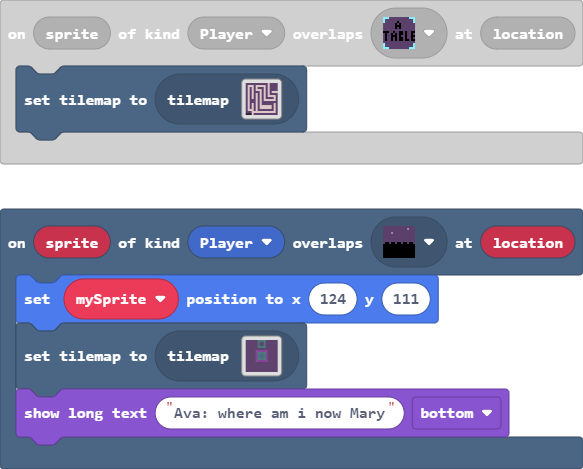
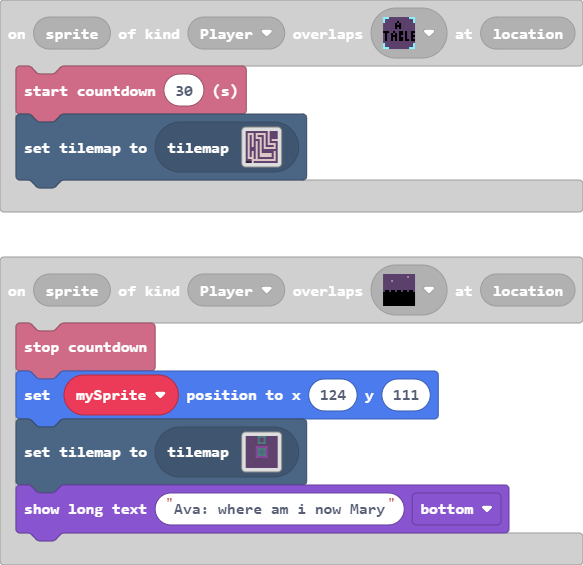
bara sma

diff --git a/images.g.ts b/images.g.ts
@@ -74,7 +74,7 @@ f f f . . . f f . . . . . . . .
     helpers._registerFactory("song", function(name: string) {
         switch(helpers.stringTrim(name)) {
             case "song1":
[2 lines of base64/hex data omitted]
         }
         return null;
     })

diff --git a/main.ts b/main.ts
@@ -172,6 +172,7 @@ scene.onOverlapTile(SpriteKind.Player, assets.tile`myTile24`, function (sprite, 
     info.setScore(10)
 })
 scene.onOverlapTile(SpriteKind.Player, assets.tile`myTile13`, function (sprite, location) {
+    info.startCountdown(30)
     tiles.setCurrentTilemap(tilemap`level93`)
 })
 scene.onOverlapTile(SpriteKind.Player, assets.tile`myTile7`, function (sprite, location) {
@@ -750,6 +751,7 @@ scene.onOverlapTile(SpriteKind.Player, assets.tile`myTile10`, function (sprite, 
     tiles.setCurrentTilemap(tilemap`level14`)
 })
 scene.onOverlapTile(SpriteKind.Player, assets.tile`myTile96`, function (sprite, location) {
+    info.stopCountdown()
     mySprite.setPosition(124, 111)
     tiles.setCurrentTilemap(tilemap`level20`)
     game.showLongText("Ava: where am i now Mary", DialogLayout.Bottom)
